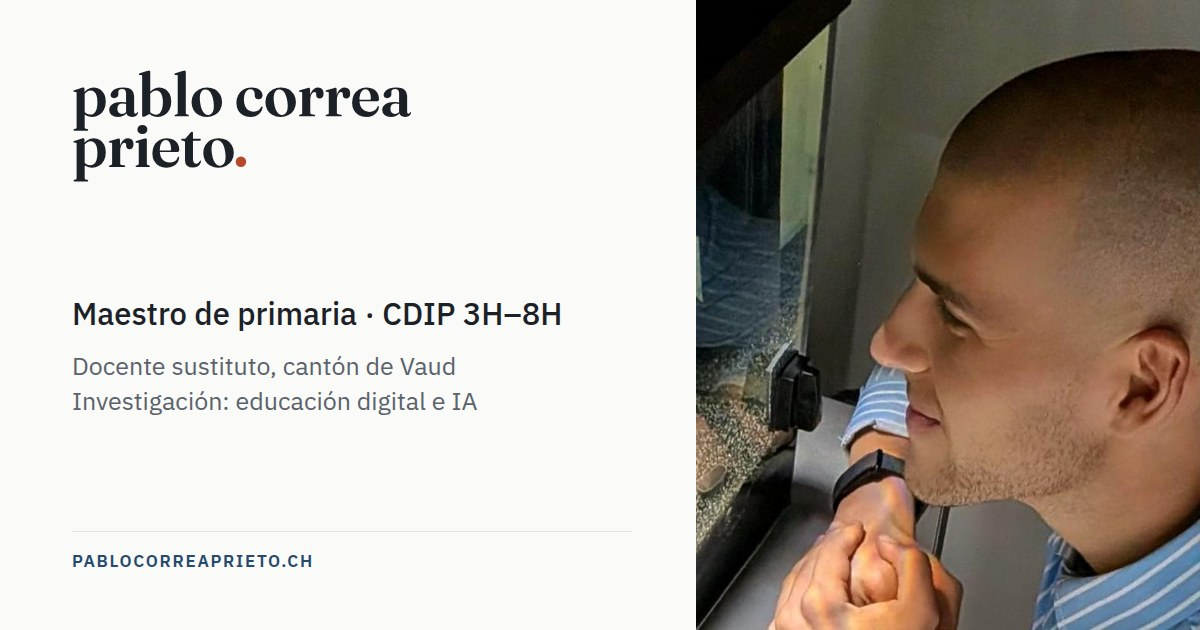
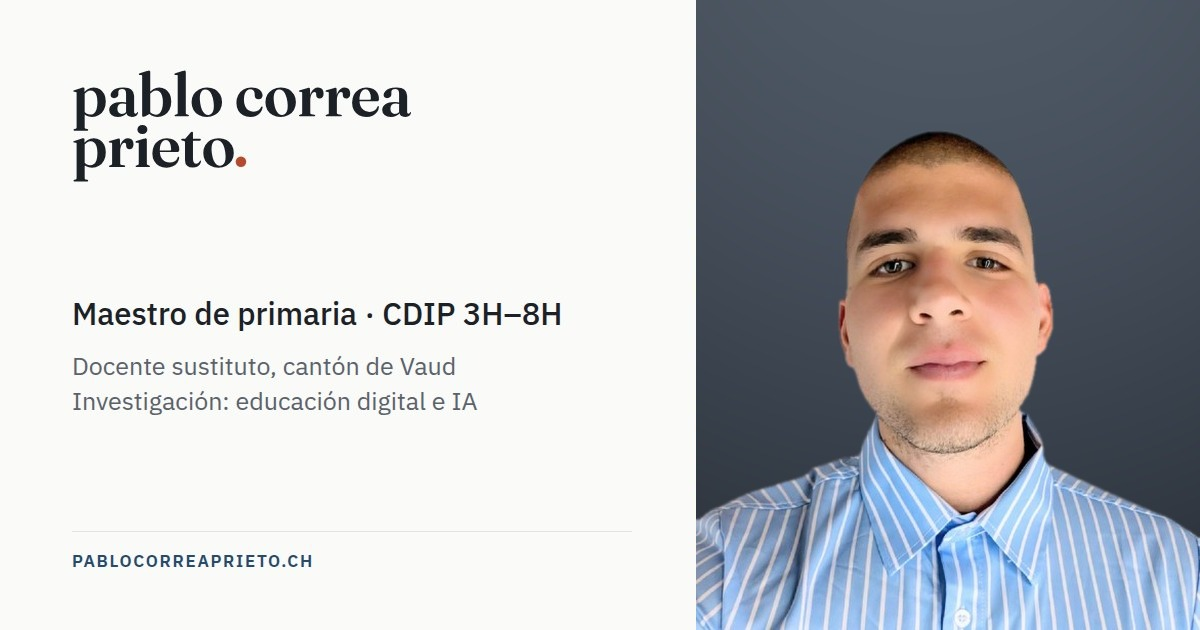
Replace the portrait with a front-facing headshot
The site portrait and the six home/research cards all carried the same
profile shot, taken from the side with no eye contact. Google Images
shows two of those cards in the first row for "Pablo Correa Prieto",
and the only face in that grid belonging to someone else is a
front-facing studio portrait.

- pablo-correa-prieto.jpg (600x750), used on 24 pages
- the photo panel (x>=696) of the six 1200x630 cards; the typography
  and layout of the cards are untouched
- lastmod on the three home pages in sitemap.xml, and their JSON-LD
  dateModified

No metadata embedded: tag-image.sh is for figures and covers, not for
photos of Pablo.

Claude-Session: https://claude.ai/code/session_01AFFm6enLW8moBV4XczpsUR

diff --git a/es/index.html b/es/index.html
@@ -37,7 +37,7 @@
       "url": "https://pablocorreaprieto.ch/es/",
       "name": "Pablo Correa Prieto – Docente (CDIP 3H–8H) e investigación educativa",
       "inLanguage": "es",
-      "dateModified": "2026-09-28T19:10:51+02:00",
+      "dateModified": "2026-10-03T19:10:00+02:00",
       "mainEntity": {
         "@id": "https://pablocorreaprieto.ch/#person"
       }

diff --git a/index.html b/index.html
@@ -37,7 +37,7 @@
       "url": "https://pablocorreaprieto.ch/",
       "name": "Pablo Correa Prieto – Enseignant (CDIP 3H–8H) et recherche en éducation",
       "inLanguage": "fr",
-      "dateModified": "2026-09-28T19:10:51+02:00",
+      "dateModified": "2026-10-03T19:10:00+02:00",
       "mainEntity": {
         "@id": "https://pablocorreaprieto.ch/#person"
       }

diff --git a/en/index.html b/en/index.html
@@ -37,7 +37,7 @@
       "url": "https://pablocorreaprieto.ch/en/",
       "name": "Pablo Correa Prieto – Teacher (CDIP 3H–8H) and education research",
       "inLanguage": "en",
-      "dateModified": "2026-09-28T19:10:51+02:00",
+      "dateModified": "2026-10-03T19:10:00+02:00",
       "mainEntity": {
         "@id": "https://pablocorreaprieto.ch/#person"
       }
